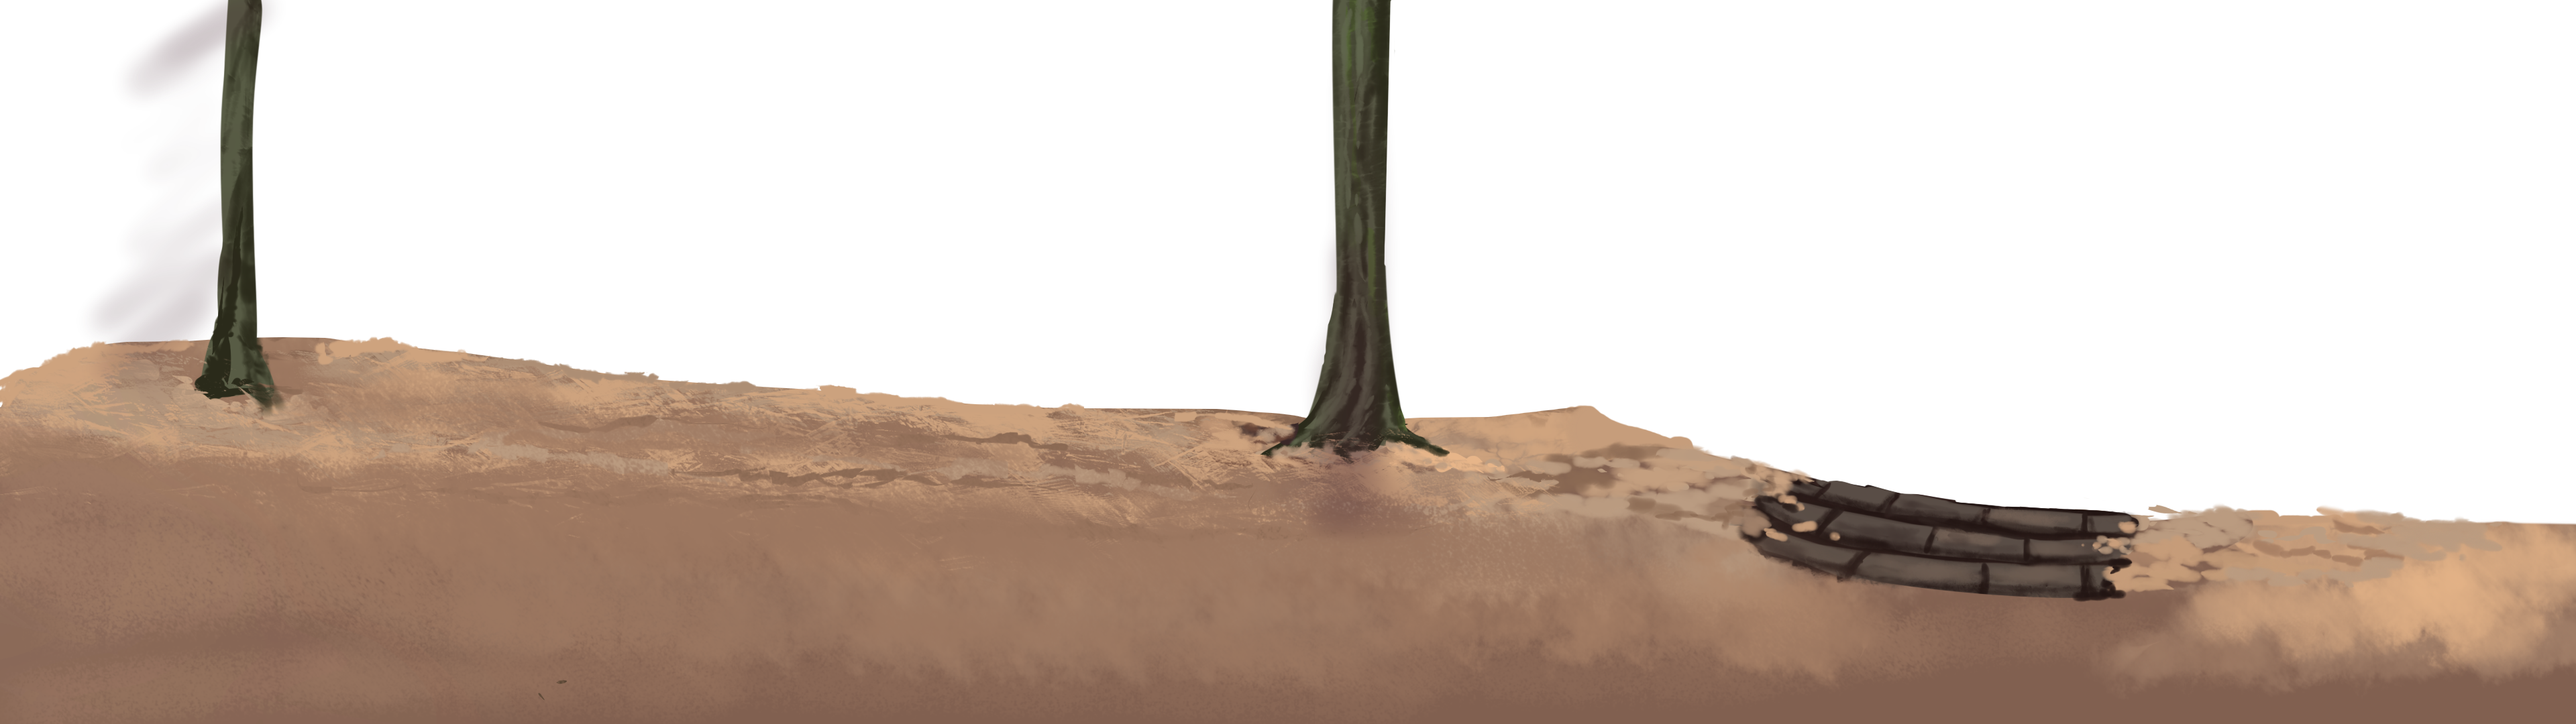
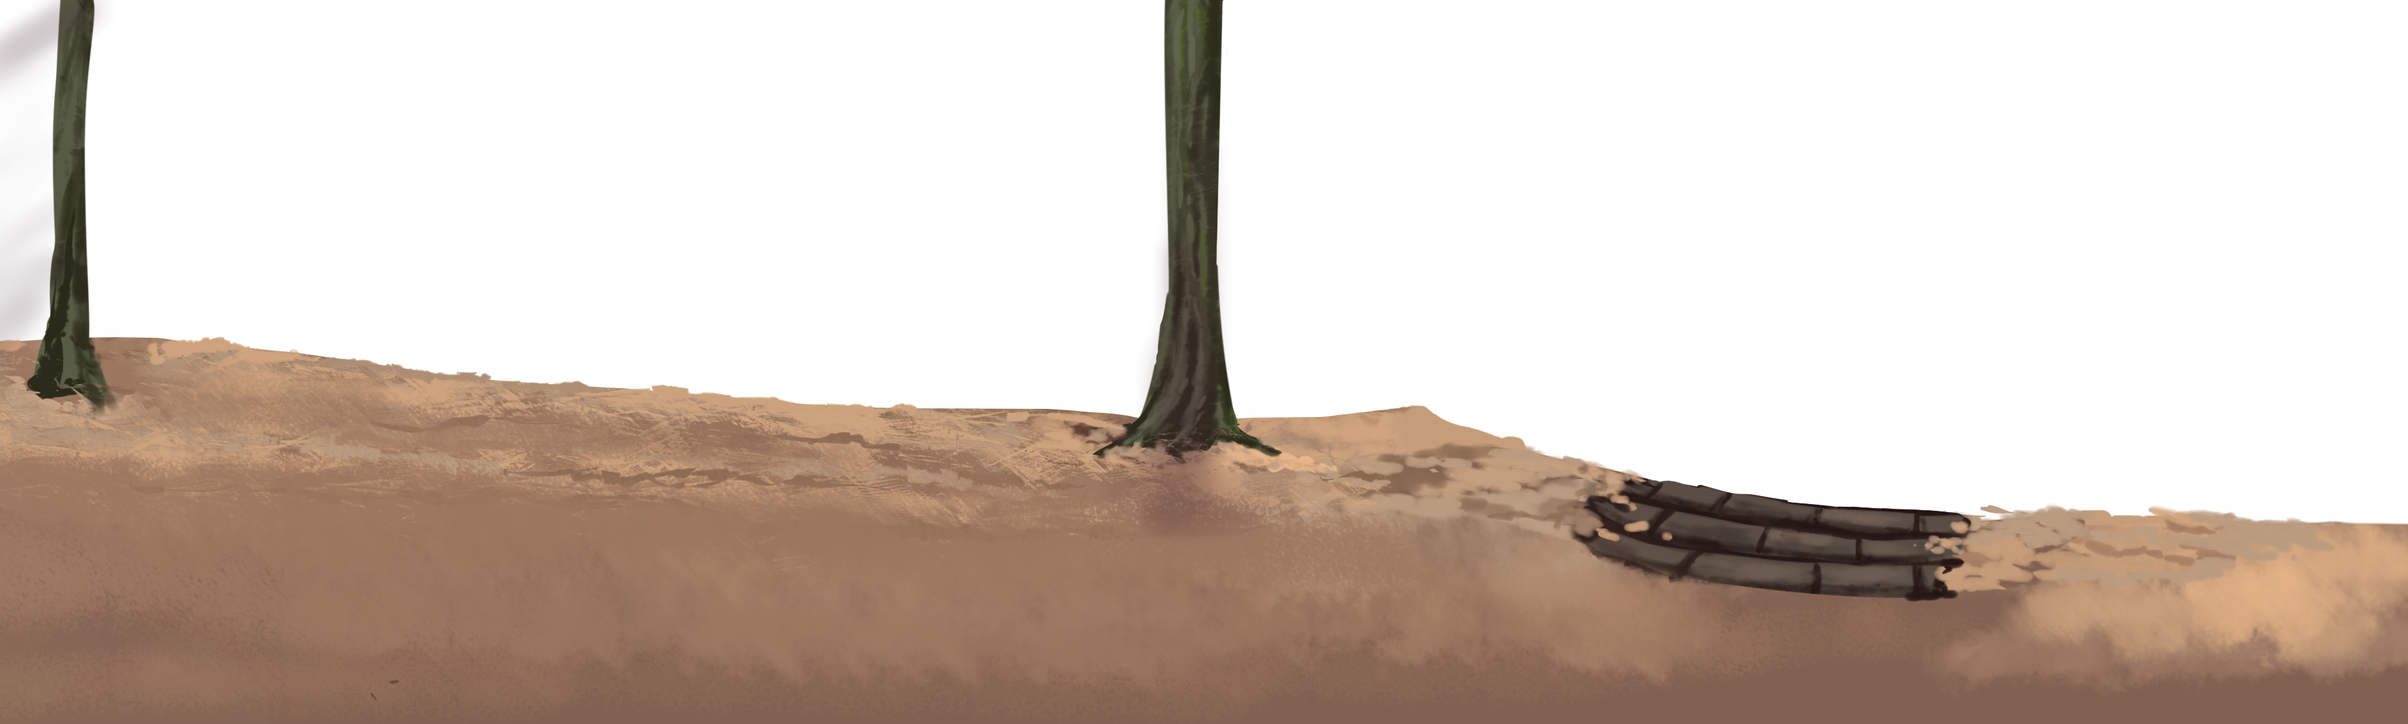
Reduced main menu texture sizes.

Changed region(s): [[0.0, 0.0, 0.9359, 0.8861], [0.9047, 0.7639, 0.9359, 0.7944]]

diff --git a/core/src/com/majalis/screens/MainMenuScreen.java b/core/src/com/majalis/screens/MainMenuScreen.java
@@ -108,7 +108,7 @@ public class MainMenuScreen extends AbstractScreen {
 	@Override
 	public void buildStage() {		
 		Image stationary = getImage(MAIN_MENU_STATIONARY);
-		stationary.setPosition(-1920, 0);
+		stationary.setPosition(0, 0);
 		bg = getImage(MAIN_MENU_BG2);
 		mg5 = getImage(MAIN_MENU_BG1);
 		mg4 = getImage(MAIN_MENU_MG4);
@@ -119,11 +119,11 @@ public class MainMenuScreen extends AbstractScreen {
 		dk = getImage(MAIN_MENU_DK);
 		fg = getImage(MAIN_MENU_FG);
 	
-		move(bg, mgScroll, -1720);
-		move(mg5, mgScroll, -1000);
-		move(mg4, mgScroll, -750);
-		move(mg3, mgScroll, -500);
-		move(mg2, mgScroll, -250);
+		move(bg, 200);
+		move(mg5, 0, 920);
+		move(mg4, 1170);
+		move(mg3, 1420);
+		move(mg2, 1670);
 		move(mg1, mgScroll);
 		move(mc, mgScroll, 1695, -95, false);
 		move(dk, fgScroll, 4000, 00, false);
@@ -199,11 +199,11 @@ public class MainMenuScreen extends AbstractScreen {
 		mc.clearActions();
 		dk.clearActions();
 		fg.clearActions();
-		bg.setPosition(-mgScroll, 0);
-		mg5.setPosition(-mgScroll, 0);
-		mg4.setPosition(-mgScroll, 0);
-		mg3.setPosition(-mgScroll, 0);
-		mg2.setPosition(-mgScroll, 0);
+		bg.setPosition(-200, 0);
+		mg5.setPosition(0, 0);
+		mg4.setPosition(-1170, 0);
+		mg3.setPosition(-1420, 0);
+		mg2.setPosition(-1670, 0);
 		mg1.setPosition(-mgScroll, 0);
 		mc.setPosition(1695 - mgScroll, -95);
 		dk.setPosition(4000 - fgScroll, 0);
